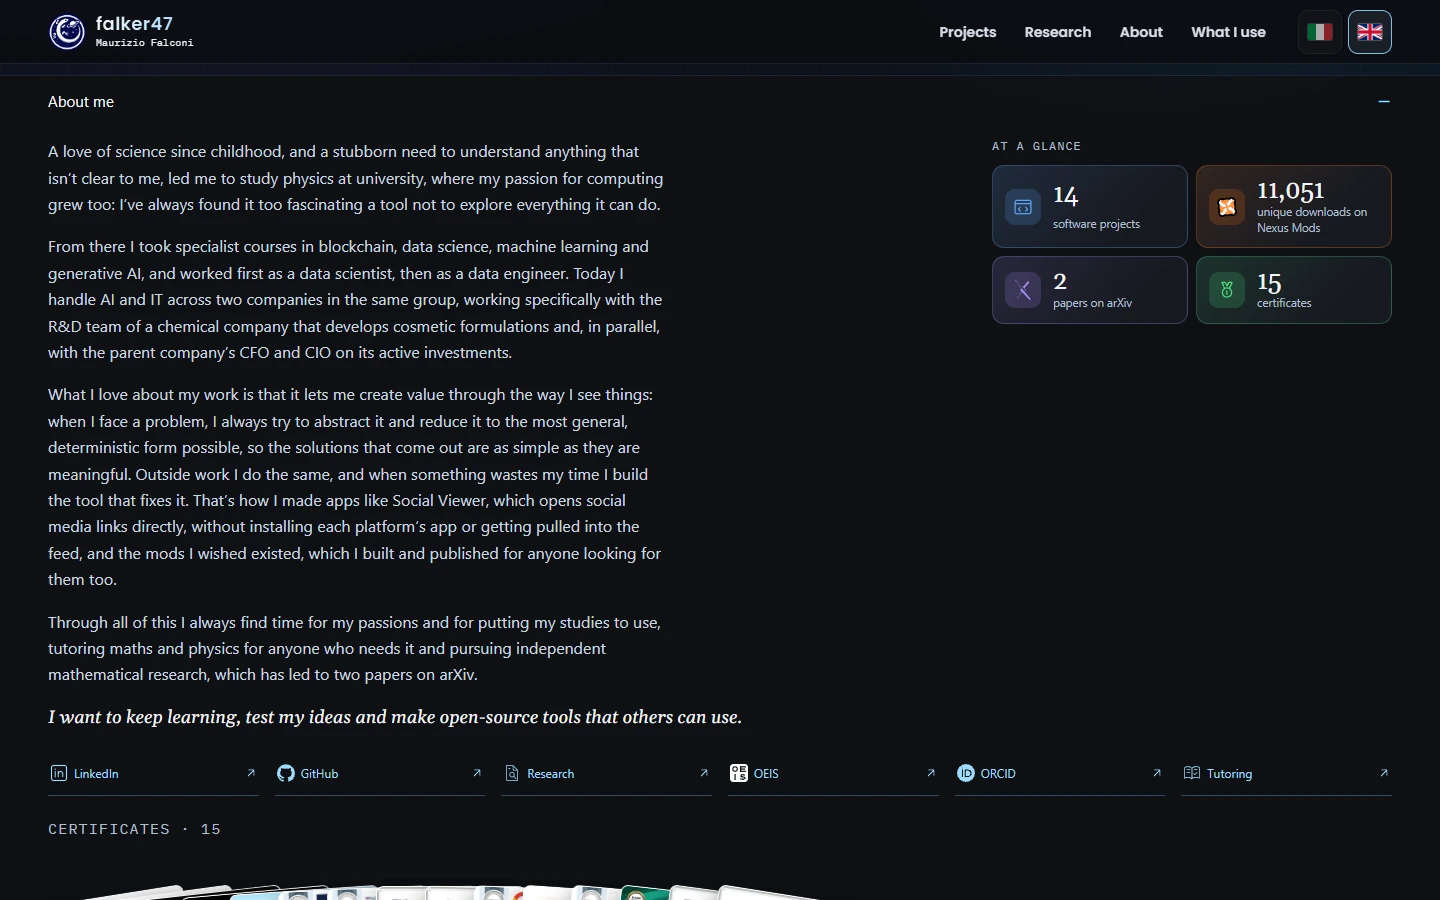
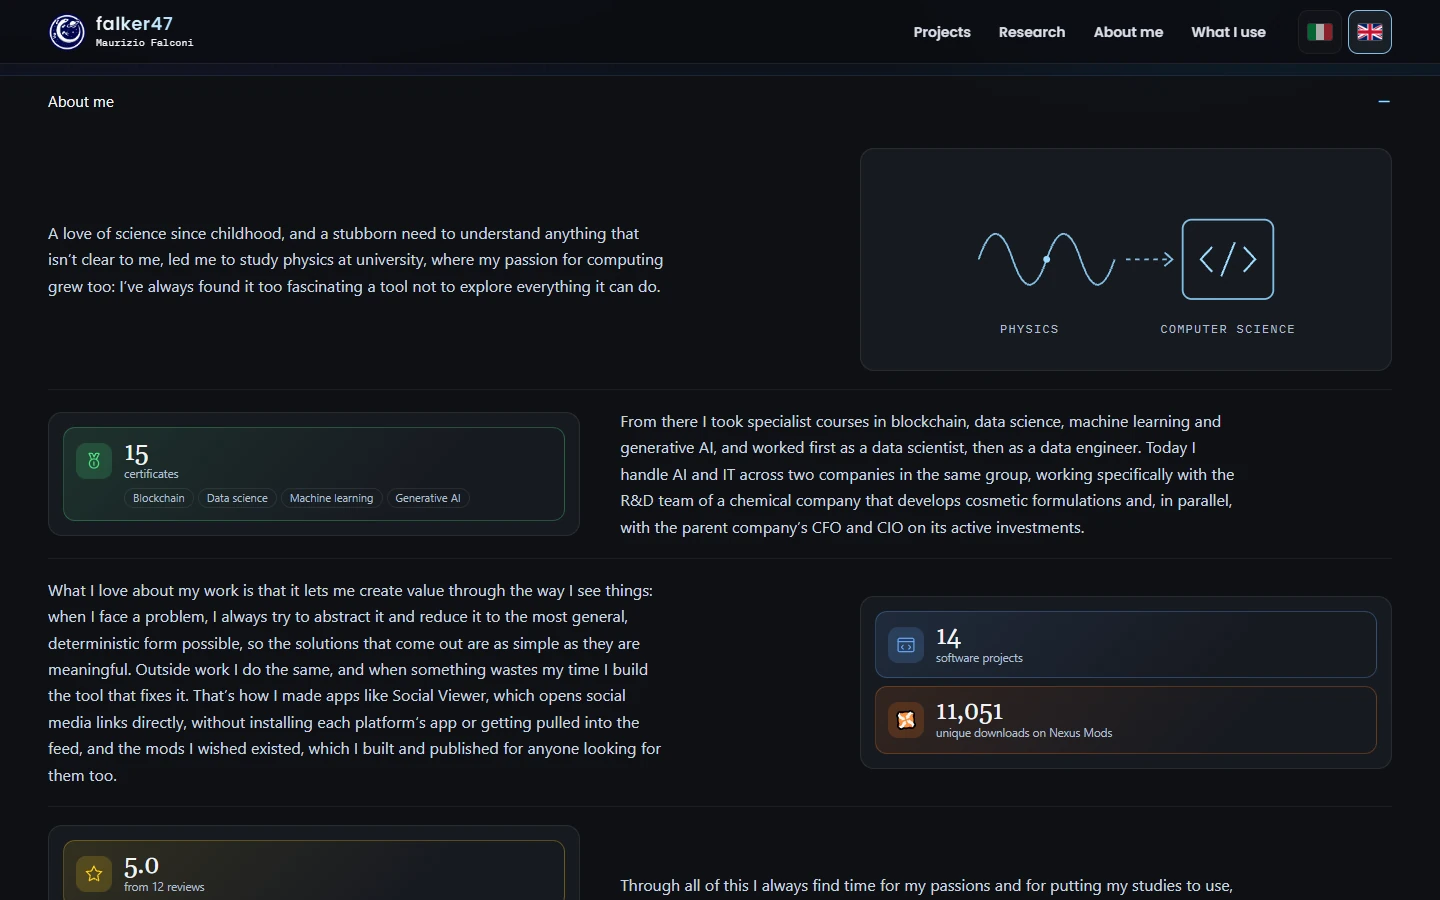
V4: docs and evidence for "Su di me"

diff --git a/AGENTS.md b/AGENTS.md
@@ -14,7 +14,7 @@ The static site builds with Node 22 and its standard library. Run commands from 
 | Redirect stub | `/projects/` → `/#progetti` |
 | Error recovery | `/404.html` |
 
-The home is the master home with the Nexus skin (direction V3, [design brief](docs/unify/BRIEF.md); the approved look is the V3 prototype, kept outside the repository at `~/sources/v3-prototype`): the header bar (three home sections, then "Cosa uso" at `/uses/`), the hero in its own band, the collapsible "Chi sono" (`#chi-sono`, certificates at `#certificazioni`) and "I miei progetti" (`#progetti`, four tabs; `#ricerca` is its Research tab), and a one-line footer. Every project lives in the home: `src/pages/home/work.mjs` renders the software categories from `data/projects.json` in data order, every published mod from `data/nexus-mods.json` (the three covers and repositories in `data/mods.json` win over the Nexus pictures), the two papers from `data/research.json` with the drawings of `src/partials/ringmin.mjs`, and the tutoring cards from `data/tutoring.json`. `src/pages/home/about.mjs` renders the text beside a facts card (software projects, Nexus unique downloads, arXiv papers and certificates, all counted from the data at build time, each a link to its section) and the certificate fan (`certificateDeck` in `src/partials/components.mjs`) from `data/certifications.json`. Every count in the three panels (the category toggles, the Nexus total, the paper count) is one tile shaped like the "Chi sono" figures; the pressed toggle is outlined in the panel accent. The card buttons are the foot of each card: up to three in a row, sharing its width, the platform mark left of the label; a card too narrow for three gives the first a row of its own. The Modding tab uses the Nexus Mods orange (`--nexus`). External action buttons go through `actionLink` in `src/partials/components.mjs`: a platform listed in `data/brands.json` shows its mark ([sources and licences](docs/unify/BRANDS.md)), any other link keeps an arrow icon. The footer signature links to the home on every page. All groups are in the HTML; `src/client/components.js` only shows one tab and one category at a time and handles the menu, the rails, the viewer and the deep links. `src/partials/detail-page.mjs` draws the top card of every project page. Use `data/profile.json` for identity and contacts. Keep visible strings and accessible labels paired in `data/i18n/it.json` and `data/i18n/en.json`. The Social Viewer privacy text has a comparison fixture in `docs/unify/privacy-snapshot.txt`.
+The home is the master home with the Nexus skin (direction V3, [design brief](docs/unify/BRIEF.md); the approved look is the V3 prototype, kept outside the repository at `~/sources/v3-prototype`): the header bar (three home sections, then "Cosa uso" at `/uses/`), the hero in its own band, the collapsible "Su di me" (`#chi-sono`, certificates at `#certificazioni`) and "I miei progetti" (`#progetti`, four tabs; `#ricerca` is its Research tab), and a one-line footer. Every project lives in the home: `src/pages/home/work.mjs` renders the software categories from `data/projects.json` in data order, every published mod from `data/nexus-mods.json` (the three covers and repositories in `data/mods.json` win over the Nexus pictures), the two papers from `data/research.json` with the drawings of `src/partials/ringmin.mjs`, and the tutoring cards from `data/tutoring.json`. `src/pages/home/about.mjs` renders four rows, each paragraph followed by its figure and alternating sides from 900 px: a line drawing for the studies (`src/partials/about-studies.mjs`), then tiles counted from the data at build time, each a link to its section (certificates with their course topics; software projects and Nexus unique downloads; the tutoring rating and the arXiv papers). The rating is the mean of `data/tutoring.json` ratings weighted by their number (`src/lib/rating.mjs`). Then the certificate fan (`certificateDeck` in `src/partials/components.mjs`) from `data/certifications.json`. Every count in the three panels (the category toggles, the Nexus total, the paper count) is one tile shaped like the "Su di me" figures; the pressed toggle is outlined in the panel accent. The card buttons are the foot of each card: up to three in a row, sharing its width, the platform mark left of the label; a card too narrow for three gives the first a row of its own. The Modding tab uses the Nexus Mods orange (`--nexus`). External action buttons go through `actionLink` in `src/partials/components.mjs`: a platform listed in `data/brands.json` shows its mark ([sources and licences](docs/unify/BRANDS.md)), any other link keeps an arrow icon. The footer signature links to the home on every page. All groups are in the HTML; `src/client/components.js` only shows one tab and one category at a time and handles the menu, the rails, the viewer and the deep links. `src/partials/detail-page.mjs` draws the top card of every project page. Use `data/profile.json` for identity and contacts. Keep visible strings and accessible labels paired in `data/i18n/it.json` and `data/i18n/en.json`. The Social Viewer privacy text has a comparison fixture in `docs/unify/privacy-snapshot.txt`.
 
 `data/redirects.json` is active. The seven `/Nexus-portfolio/` source URLs include two aliases for one index file, and `/projects/` is the eighth stub. The build publishes the stubs and copies the assets in `legacy/Nexus-portfolio/assets/` to their original paths. Preserve the exact paths and hashes in `legacy/sha256.json`. Never remove a listed route or file; a target may change. Other project Pages sites use their own repositories and reserved top-level paths. [URL map](docs/unify/URL-MAP.md)
 
